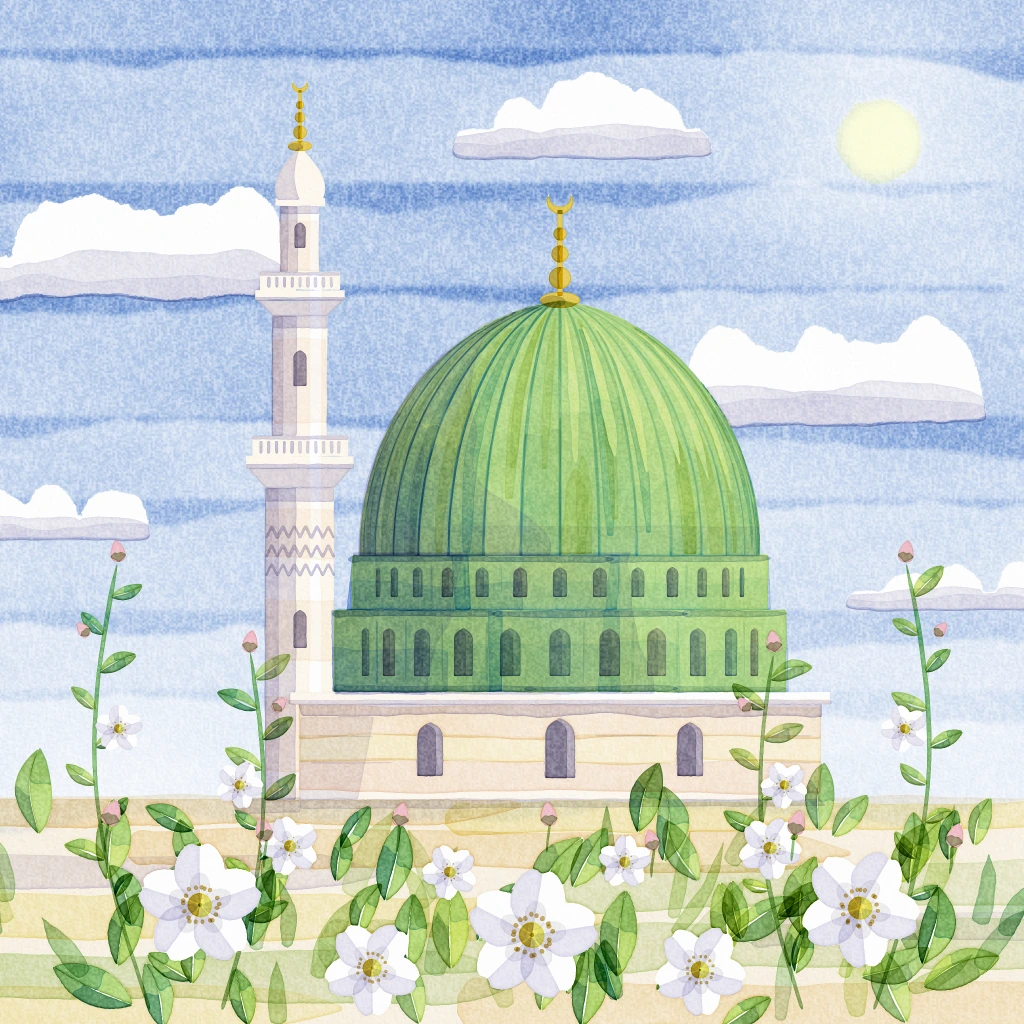
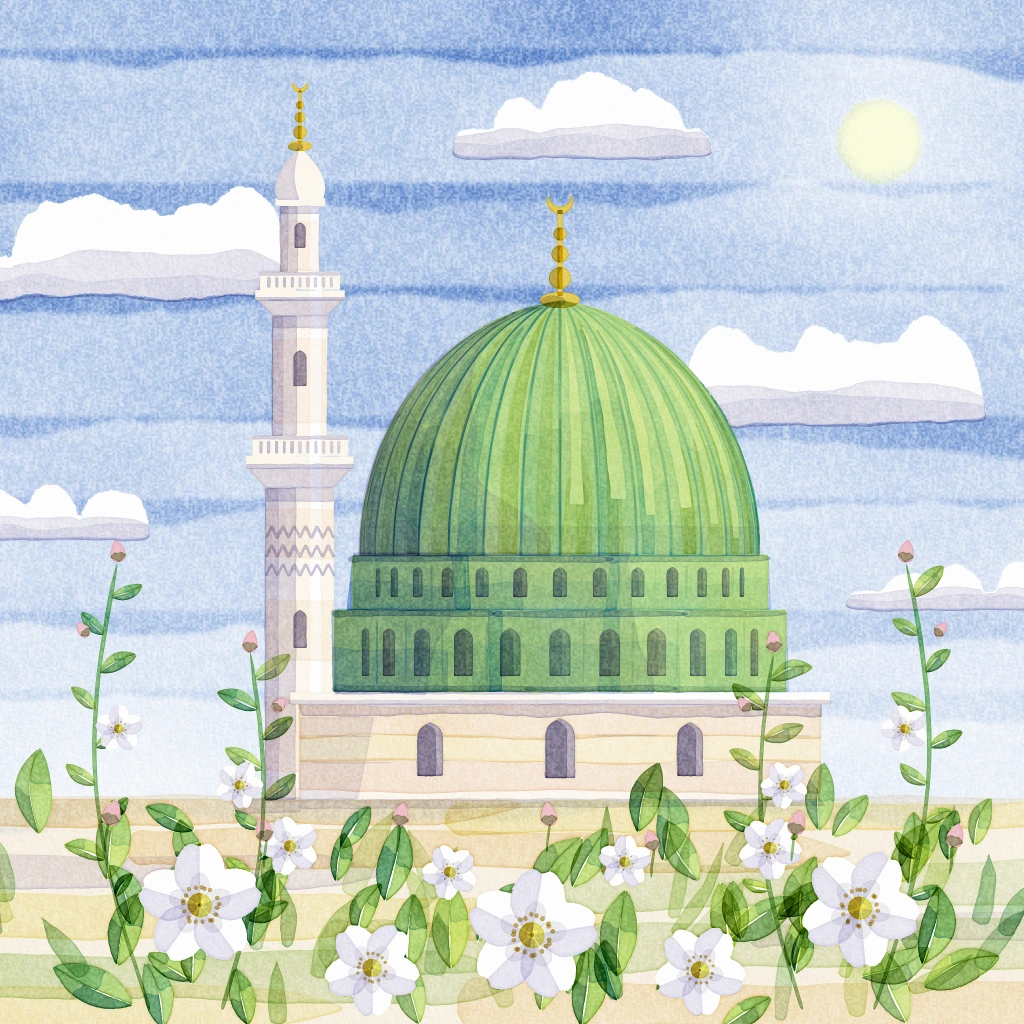
Atölye: S-216 kubbesinde akıntıya benzeyen sivri uçlu vuruşlar giderildi
Claude-Session: https://claude.ai/code/session_01Q8CfoBGMPN7gfLWQYpMs1J

Changed region(s): [[0.4375, 0.4062, 0.75, 0.5625]]

diff --git a/atolye/stiller/S-219-topografik-renkli-cizim/ornek.html b/atolye/stiller/S-219-topografik-renkli-cizim/ornek.html
@@ -879,7 +879,7 @@ const hat = (x1, y1, x2, y2, n) => {
 // üstüne saydam, açık yerel renkleri sürer. Gölgeler soğuk gri-mavi, ışıklar temiz ve açık yerel renktir.
 
 const r = SAHNE.rng(219);
-kagitKur({ tohum: 219, tane: 1.8, iri: 0.1, lif: 0.15 });
+kagitKur({ tohum: 219, tane: 2.8, iri: 0.16, lif: 0.12 });
 const G = sahneSekilleri(0.35);
 const bitkiRez = [G.cicekSekil, G.tomurcukSekil];
 const rez = [G.yapi, G.cicekSekil, G.tomurcukSekil];
@@ -1097,6 +1097,13 @@ function bulutKutlesi(x0, x1, taban, h, tohum) {
     const rx = ry * (1.5 + 0.7 * rr());
     lob.push({ cx: x0 + w * t, cy: taban - ry * (0.45 + 0.2 * rr()), rx, ry });
   }
+  // tepeye doğru üst üste binen iki üç tümsek: bulut yassı bir şerit değil, sağa doğru kabaran bir yığın
+  const tepeT = 0.5 + rr() * 0.2;
+  const m = 2 + Math.floor(rr() * 2);
+  for (let i = 0; i < m; i++) {
+    const ry = h * (0.42 - i * 0.08) * (0.85 + 0.3 * rr());
+    lob.push({ cx: x0 + w * (tepeT + (i - (m - 1) / 2) * 0.17 + (rr() - 0.5) * 0.05), cy: taban - h * (0.72 + 0.12 * rr()) + i * h * 0.06, rx: ry * (1.2 + 0.4 * rr()), ry });
+  }
   const govde = { cx: x0 + w * 0.5, cy: taban - h * 0.12, rx: w * 0.5, ry: h * 0.22 };
   const tabanY = (x) => {
     const t = kenet((x - x0) / w, 0, 1);
@@ -1130,11 +1137,11 @@ function bulutKutlesi(x0, x1, taban, h, tohum) {
   return b;
 }
 const bulutlar = [
-  bulutKutlesi(24, 430, 284, 104, 2191),
-  bulutKutlesi(498, 772, 152, 70, 2192),
-  bulutKutlesi(700, 1006, 432, 92, 2193),
-  bulutKutlesi(-50, 205, 530, 42, 2194),
-  bulutKutlesi(834, 1080, 603, 38, 2195),
+  bulutKutlesi(30, 410, 290, 92, 2191),
+  bulutKutlesi(505, 760, 152, 60, 2192),
+  bulutKutlesi(712, 1000, 436, 80, 2193),
+  bulutKutlesi(-50, 196, 532, 40, 2194),
+  bulutKutlesi(840, 1076, 604, 36, 2195),
 ];
 const bulutSekil = birlesik(bulutlar.map((b) => b.sk));
 // gök lavisinin keskin bittiği ışıklı üst kısım ve yumuşak bittiği orta kısım (tabanın altı gökle birleşir)
@@ -1323,7 +1330,7 @@ G.cicekler.forEach((C) => {
     const isaret = vx * 0.66 + vy * -0.75 > 0 ? -1 : 1; // gölge yanı
     const P = (u, v) => [c.x + u * ca - v * sa * isaret, c.y + u * sa + v * ca * isaret];
     const ust = C.taclar[(i + 1) % 5];
-    const op = Object.assign({}, gmF, { kirp: sekil([t]), haric: [sekil([ust])], rimR: Math.max(1.2, c.r * 0.045) });
+    const op = Object.assign({}, gmF, { kirp: sekil([t]), haric: [sekil([ust]), sekil([elips(c.x, c.y, c.r * 0.19, c.r * 0.18, c.aci, 28)])], rimR: Math.max(1.2, c.r * 0.045) });
     const R = c.r;
     const g = (1 - isik) / 2; // 0 ışık … 1 gölge
     const U = R * (0.32 + 0.46 * g);
@@ -1448,7 +1455,7 @@ const gunesDisk = sekilPoli(elips(gunes.x, gunes.y, 40, 39, 0.3, 64), 2.2, 0.07,
     const iy = kenet(Math.floor((py * AW) / 1024), 0, AW - 1);
     return fd[(iy * AW + ix) * 4 + ch] / 255;
   };
-  const egim = (py) => 1.22 - 0.9 * kenet(py / 800, 0, 1);
+  const egim = (py) => 1.38 - 1.05 * Math.pow(kenet(py / 800, 0, 1), 0.85);
   const gunesK = (px, py) => 1 - 0.42 * Math.exp(-Math.pow(Math.hypot(px - gunes.x, py - gunes.y) / 190, 2));
   const gokSk = (function () {
     const nzU = gurultu(2203);

diff --git a/atolye/stiller/S-216-sinirli-palet-suluboya/ornek.html b/atolye/stiller/S-216-sinirli-palet-suluboya/ornek.html
@@ -1311,7 +1311,7 @@ for (let k = 0; k < DILIM; k++) {
   if (lit > 0.8 && k < DILIM - 1) {
     const ya = 312 + rD() * 18;
     const yb = 430 + rD() * 90;
-    acik.push(sekilPoli(kubbeVurus(b1 + (b2 - b1) * (0.42 + rD() * 0.16), (b2 - b1) * (0.15 + rD() * 0.07), ya, yb, 6100 + k, (t) => Math.pow(Math.sin(Math.PI * (0.04 + 0.96 * t)), 0.55)), 0.6, 0.07, 1.2));
+    acik.push(sekilPoli(kubbeVurus(b1 + (b2 - b1) * (0.42 + rD() * 0.16), (b2 - b1) * (0.15 + rD() * 0.07), ya, Math.min(548, yb + 40), 6100 + k, (t) => Math.pow(Math.sin(Math.PI * Math.min(0.5, 0.04 + 0.75 * t)), 0.55)), 0.6, 0.07, 1.2));
   }
   lavi(sk, { v: [u, 0, rose], rim: 0.65 * gen, rimR: 3.2, boncuk: 0.75 * gen, gran: 0.35, dalga: 0.34, dalgaO: 1.1, havuz: 1.3, kuru: 0.35, carp: (x, y) => 0.86 + 0.28 * ((y - 301) / 255), haric: bitkiRez.concat(acik) });
   // dilim boyunca ikinci vuruşlar: dar, sert kenarlı, kâğıtta kuruyup bindiği yerde koyulaşan
@@ -1319,7 +1319,7 @@ for (let k = 0; k < DILIM; k++) {
   for (let s = 0; s < ns; s++) {
     const tepeden = rD() < 0.5;
     const ya = tepeden ? 304 + rD() * 26 : 360 + rD() * 120;
-    const yb = tepeden ? Math.min(553, ya + 120 + rD() * 150) : 554;
+    const yb = tepeden ? (rD(), 554) : 554; // tepeden inen vuruş da dilimin dibine kadar iner: yarıda sivri biten (akıntıya benzeyen) uç kalmaz
     const hw = (b2 - b1) * (0.16 + rD() * 0.14);
     const c = b1 + (b2 - b1) * (0.28 + rD() * 0.44);
     const tur = rD();
@@ -1327,7 +1327,7 @@ for (let k = 0; k < DILIM; k++) {
     if (lit > 0.6) v = tur < 0.5 ? [0.04, 0.17 + 0.06 * lit, 0] : [0.13, 0, 0.002];
     else if (lit > 0.25) v = tur < 0.4 ? [0.04, 0.2, 0] : [0.13, 0, 0.006];
     else v = tur < 0.5 ? [0.08, 0, 0.036] : [0.09, 0.06, 0.006];
-    const profil = tepeden ? (t) => Math.pow(Math.sin(Math.PI * (0.08 + 0.84 * t)), 0.45) * (1 - 0.3 * t) : (t) => Math.pow(Math.min(1, Math.sin(Math.PI * 0.5 * Math.min(1, t * 2.2))), 0.6);
+    const profil = tepeden ? (t) => Math.pow(Math.sin(Math.PI * Math.min(0.5, 0.06 + 0.9 * t)), 0.5) : (t) => Math.pow(Math.min(1, Math.sin(Math.PI * 0.5 * Math.min(1, t * 2.2))), 0.6);
     lavi(sekilPoli(kubbeVurus(c, hw, ya, yb, 6200 + k * 3 + s, profil), 0.5, 0.06, 1.2), { v, rim: 0.75, rimR: 2.4, boncuk: 0.8, gran: 0.3, dalga: 0.25, dalgaO: 0.8, havuz: 1, kuru: 0.45, haric: bitkiRez.concat(acik) });
   }
   // bazı dilimlere tabandan ikinci mavi sır: yarıda kesilen üst kenarı kuruyup dilimin içinde sert çizgi kalır
